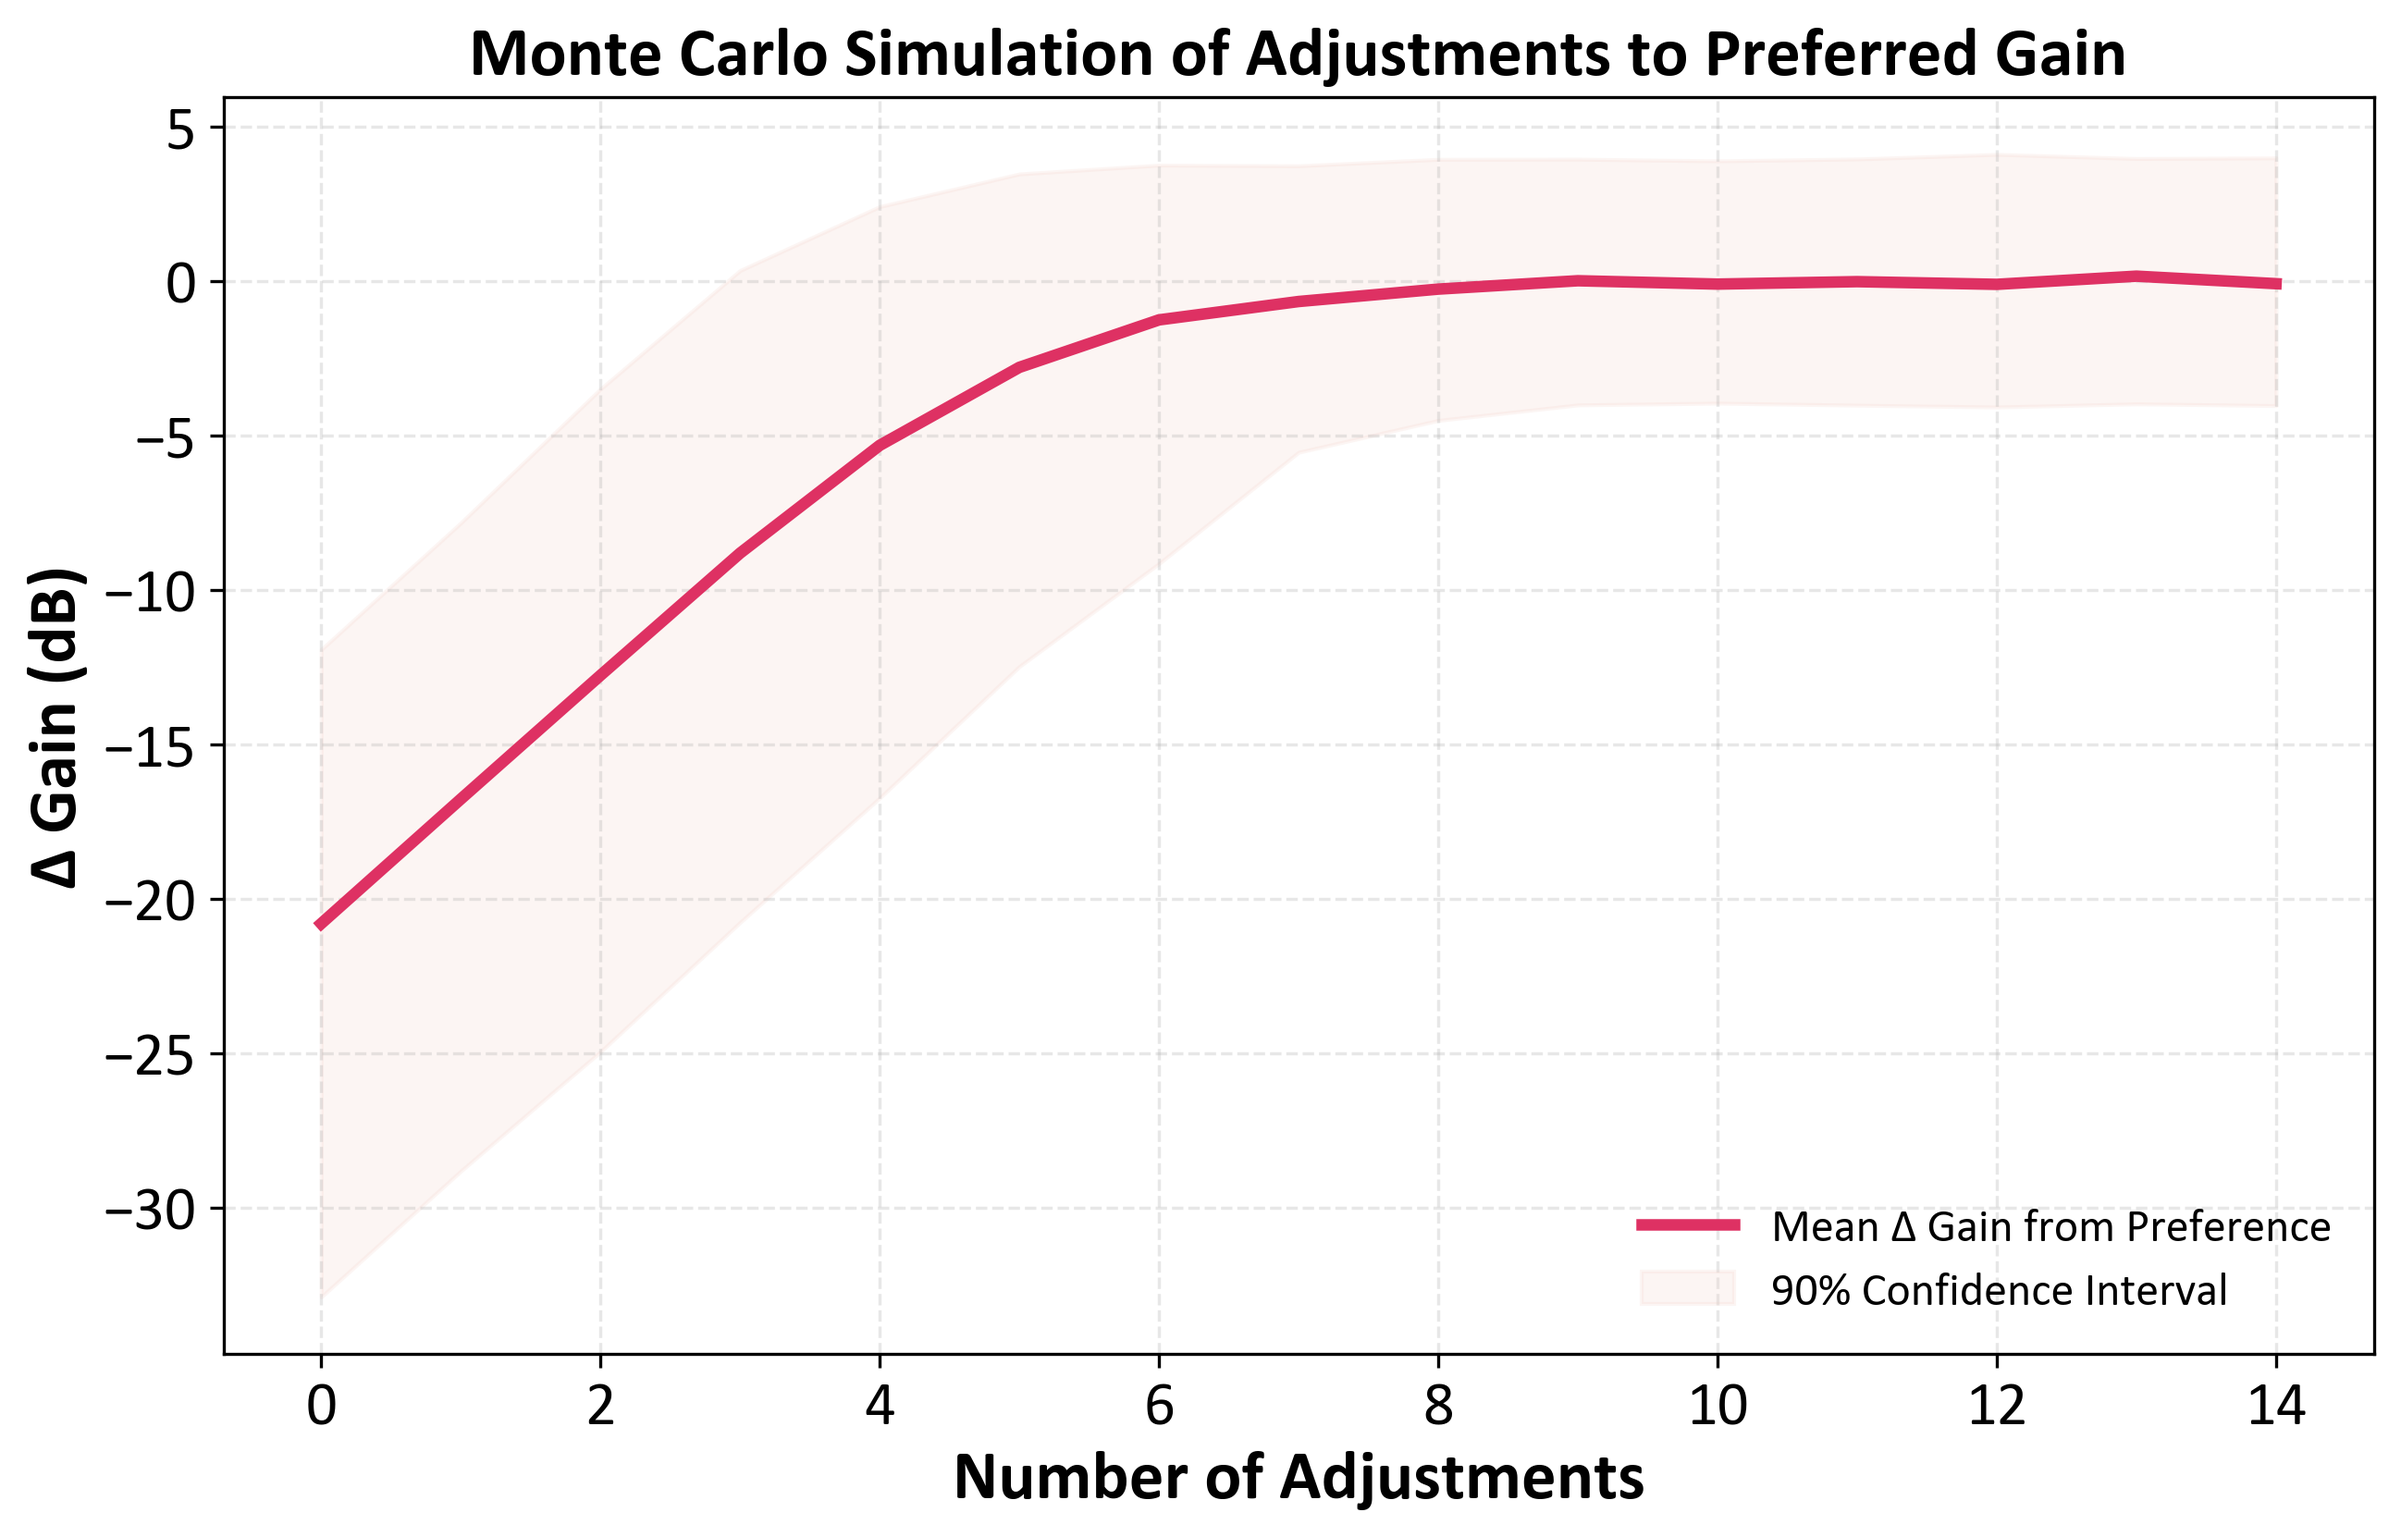
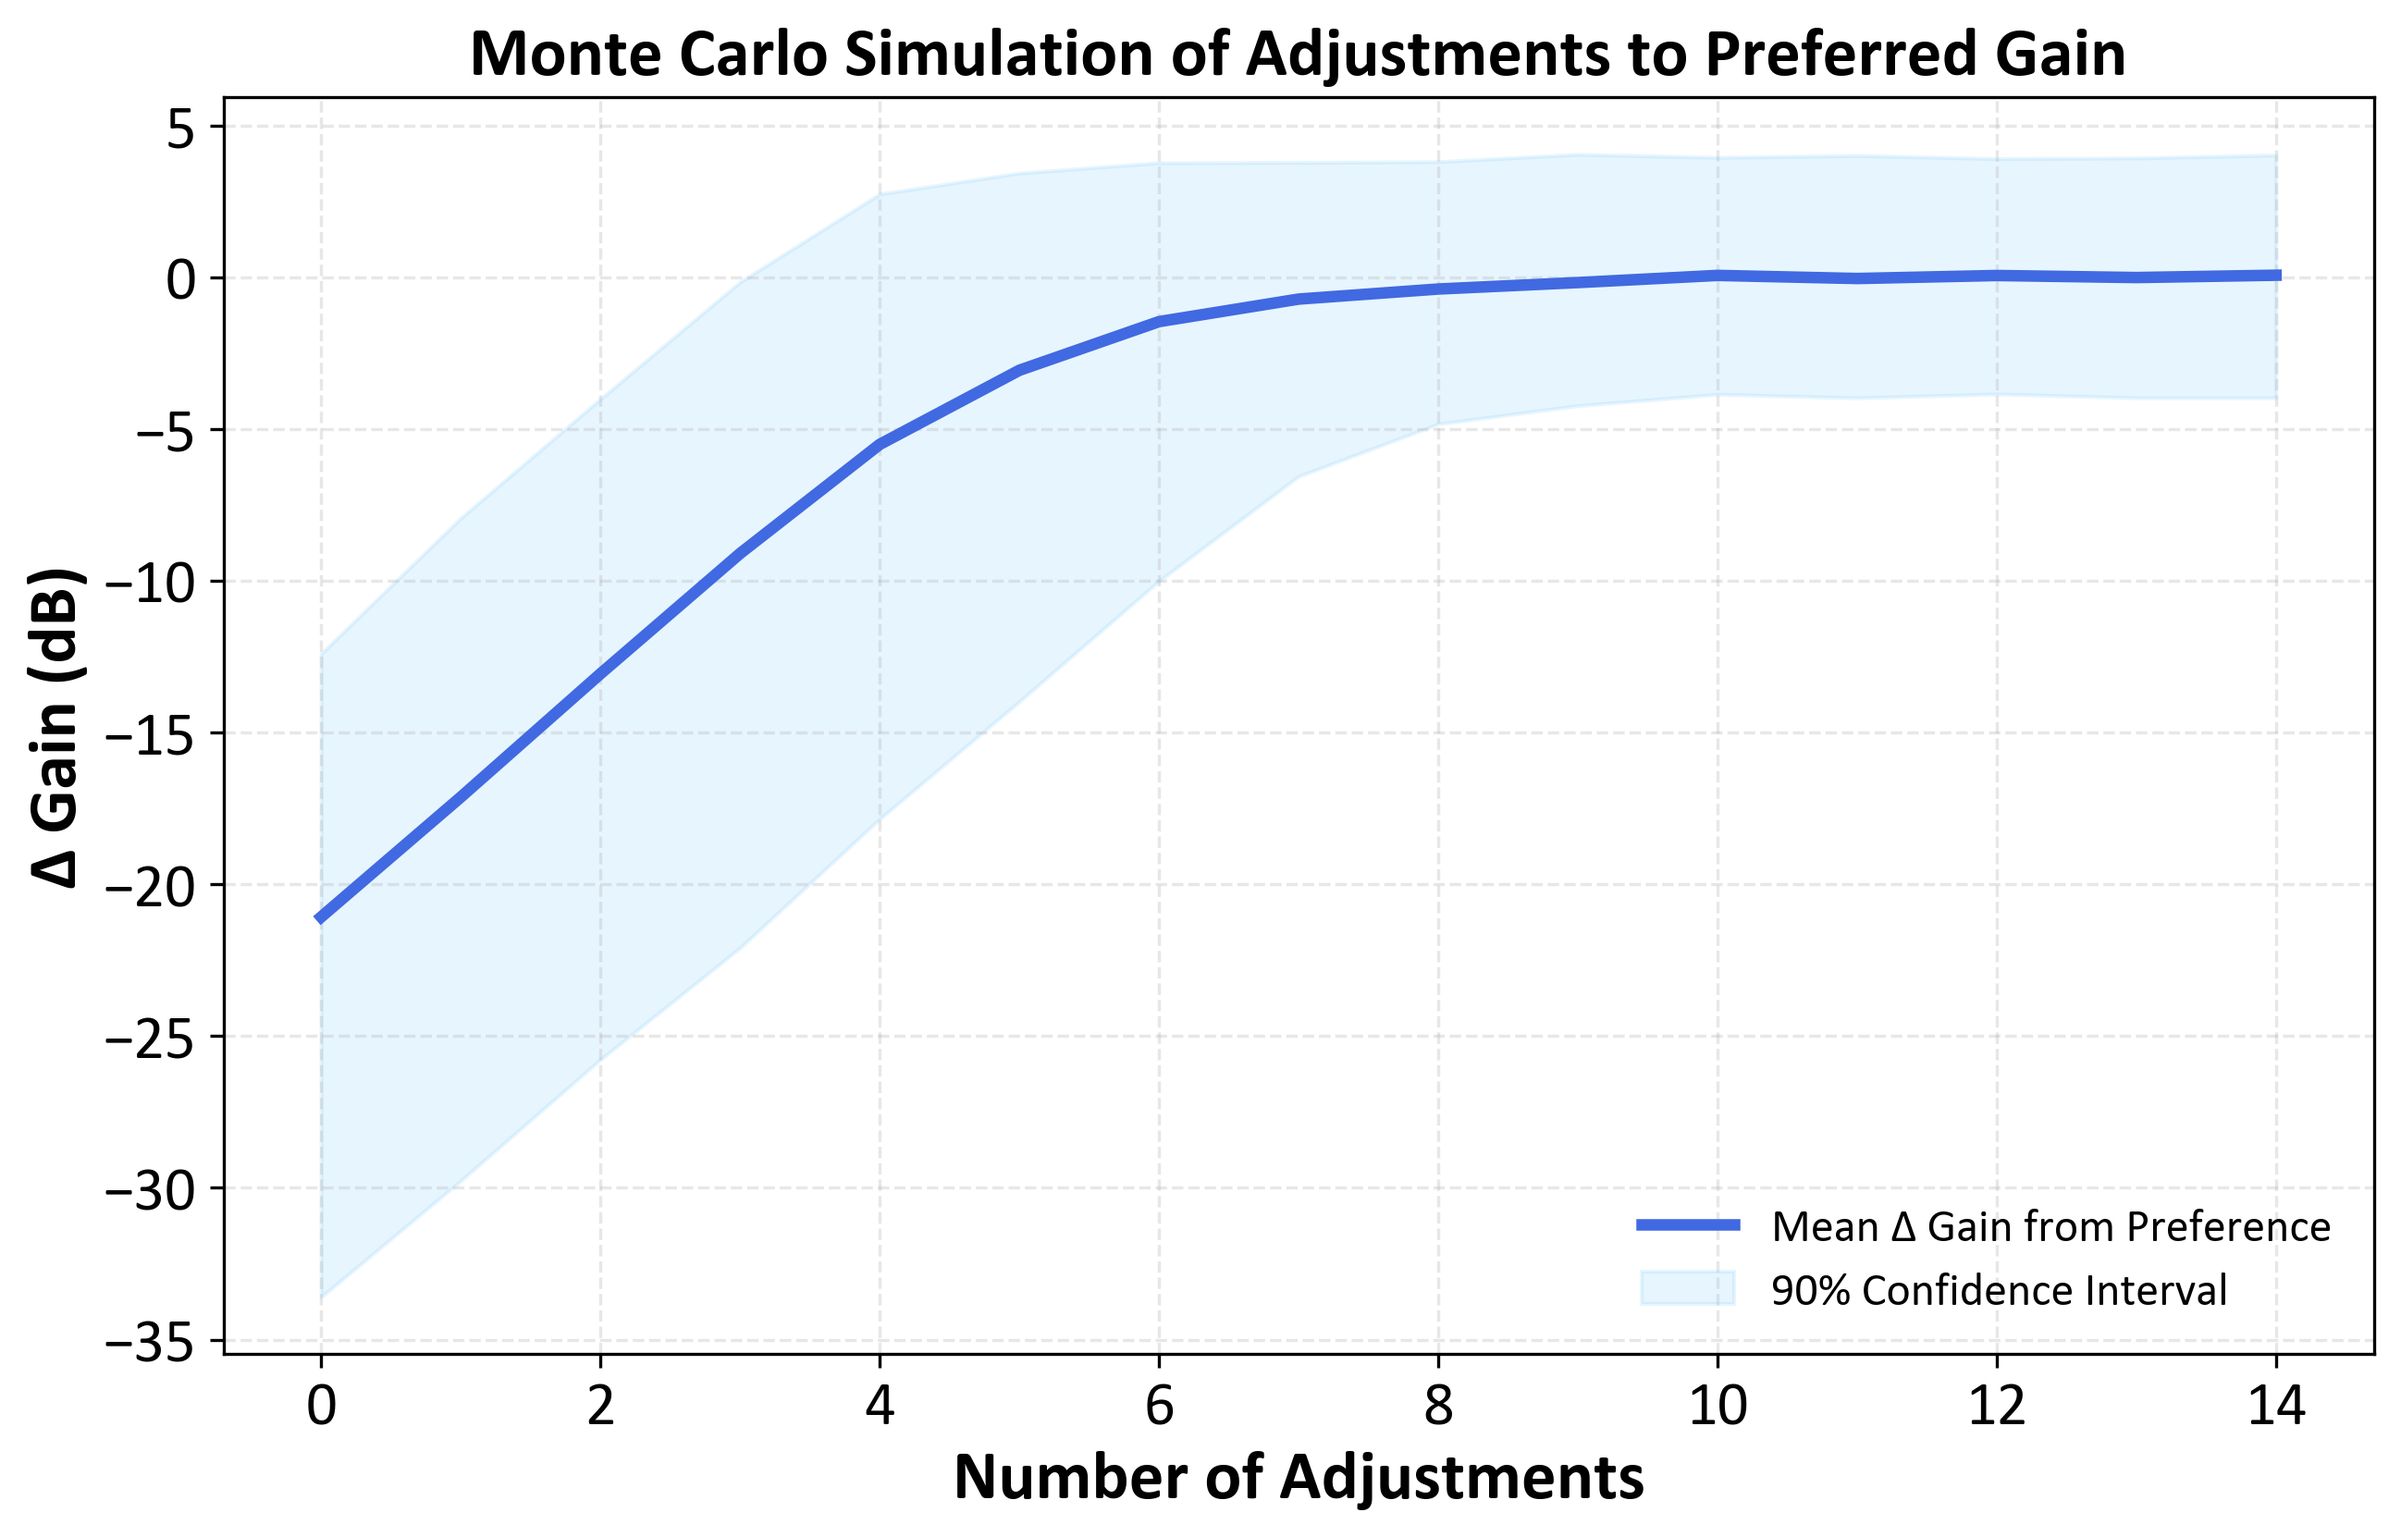
Add files via upload

diff --git a/monte_carlo_gain_adjustment.py b/monte_carlo_gain_adjustment.py
@@ -113,7 +113,7 @@ delta_gain_95 = np.percentile(simulated_gain_adjustments - preferred_gains[:, No
 ########################################################################################################################################################################
 plt.rcParams['font.family'] = 'Calibri'
 plt.figure(figsize=(8, 6))
-plt.hist(preferred_gains, bins=30, color='#FFC0CB', edgecolor='black', alpha=0.5)
+plt.hist(preferred_gains, bins=30, color='#4169E1', edgecolor='black', alpha=0.5)
 plt.title("Histogram of Preferred Gains", fontsize=17, fontweight='bold')
 plt.xlabel("Preferred Gain (dB)", fontsize=16, fontweight='bold')
 plt.ylabel("Frequency", fontsize=16, fontweight='bold')
@@ -131,8 +131,8 @@ plt.show()
 ########################################################################################################################################################################
 # Plot the results with delta gain (change from preferred gain)
 plt.figure(figsize=(10, 6))
-plt.plot(delta_gain_mean, label="Mean Δ Gain from Preference", color="#DE3163",lw=3)
-plt.fill_between(range(num_adjustments), delta_gain_5, delta_gain_95, color='#F3CFC6', alpha=0.2, label="90% Confidence Interval")
+plt.plot(delta_gain_mean, label="Mean Δ Gain from Preference", color="#4169E1",lw=3)
+plt.fill_between(range(num_adjustments), delta_gain_5, delta_gain_95, color='#87CEFA', alpha=0.2, label="90% Confidence Interval")
 plt.title("Monte Carlo Simulation of Adjustments to Preferred Gain", fontsize=18, fontweight='bold')
 plt.xlabel("Number of Adjustments", fontsize=18, fontweight='bold')
 plt.ylabel("Δ Gain (dB)", fontsize=18, fontweight='bold')
